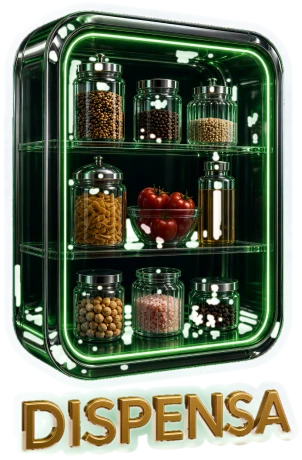
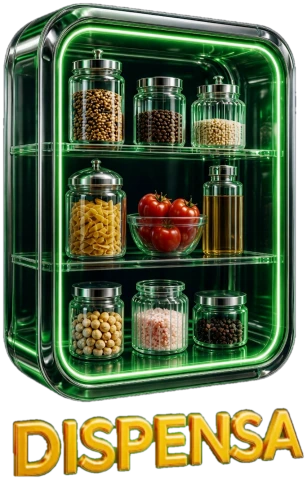
Add files via upload

diff --git a/intestazioni.py b/intestazioni.py
@@ -90,10 +90,15 @@ def ih_hero_dispensa():
     uri = ih_uri("dispensa.webp", 330)
     if not uri or "t" not in globals():
         return None
-    css = ("<style>.hero{height:auto !important;min-height:150px !important;padding:10px 16px 10px 14px !important;gap:16px !important;align-items:center !important}"
-           ".hero::after{display:none !important}"
-           ".hero .hero-img{height:136px;width:auto;flex:0 0 auto;filter:drop-shadow(0 0 7px rgba(255,255,255,.5)) drop-shadow(0 4px 6px rgba(0,0,0,.4))}"
-           ".hero-testi{max-width:none !important;min-width:0}</style>")
+    # IDENTICO al garage di Auto (che è «perfetto»): flex, icona a sinistra, testo a destra centrato in verticale, stessi spazi e stessi caratteri (h1 1,7 rem, sottotitolo 0,95 rem)
+    # «.hero.hero» = più forte di ogni altra regola «.hero» dello stile (che arrivano in ordine diverso e fissavano altezza 158 px, margini a 0 e testo largo 150 px)
+    css = ("<style>.hero.hero{display:flex !important;flex-direction:row !important;align-items:center !important;justify-content:flex-start !important;gap:16px !important;height:auto !important;min-height:0 !important;padding:18px 22px !important;"
+           "border-radius:24px !important;border:none !important;overflow:hidden !important;box-shadow:0 6px 18px rgba(0,60,40,.4) !important;background:linear-gradient(135deg,#0a4d3a 0%,#168a6c 55%,#6cc7b3 100%) !important}"
+           ".hero.hero::after{display:none !important}"
+           ".hero.hero .hero-img{height:150px !important;width:auto !important;max-width:42% !important;flex:0 0 auto !important;filter:drop-shadow(0 0 7px rgba(255,255,255,.55)) drop-shadow(0 4px 6px rgba(0,0,0,.4))}"
+           ".hero.hero .hero-testi{flex:1 1 0 !important;max-width:none !important;min-width:0 !important;display:block !important;background:none !important;backdrop-filter:none !important;box-shadow:none !important;padding:0 !important;margin:0 !important}"
+           ".hero.hero h1{margin:0 !important;font-size:1.7rem !important;line-height:1.15 !important;white-space:normal !important;color:#fff !important}"
+           ".hero.hero p{margin:2px 0 0 !important;font-size:.95rem !important;font-weight:700 !important;line-height:1.35 !important;max-width:none !important;opacity:.95 !important;color:#fff !important}</style>")
     return (css + f"<div class='hero'><img class='hero-img' alt='Dispensa' src='{uri}'>"
             f"<div class='hero-testi'><h1>{t('La nostra dispensa')}</h1><p>{t('Scorte, scadenze e allergeni sempre sotto controllo')}</p></div></div>")
 

diff --git a/casa.py b/casa.py
@@ -1872,9 +1872,9 @@ def _ca_ora():
 _CA_AFF = {"alta": "🟢", "media": "🟡", "bassa": "🟠"}
 _CA_CSS = """<style>
 .ca-hero{background:linear-gradient(135deg,#7a5c00 0%,#d4a017 45%,#4aa3df 100%);color:#fff;padding:18px 22px;border-radius:24px;margin:6px 0 12px;
-box-shadow:0 10px 30px rgba(0,0,0,.15);display:flex;align-items:center;gap:14px}
-.ca-hero img{width:64px;height:64px;object-fit:contain;filter:drop-shadow(0 3px 5px rgba(0,0,0,.3))}
-.ca-hero h1{margin:0;font-size:1.8rem;color:#fff;padding:0}.ca-hero p{margin:4px 0 0;opacity:.95}
+box-shadow:0 10px 30px rgba(0,0,0,.15);display:flex;align-items:center;gap:16px}
+.ca-hero img{height:132px;width:auto;max-width:40%;object-fit:contain;flex:0 0 auto;filter:drop-shadow(0 0 7px rgba(255,255,255,.55)) drop-shadow(0 4px 6px rgba(0,0,0,.4))}
+.ca-hero h1{margin:0;font-size:1.7rem;line-height:1.15;color:#fff;padding:0}.ca-hero p{margin:2px 0 0;font-size:.95rem;opacity:.95}
 .ca-card{background:#ffffffcc;border:1px solid #e3d9b8;border-radius:18px;padding:12px 14px;margin:6px 0}
 .ca-card b{font-size:1.02rem}.ca-chip{display:inline-block;border-radius:999px;padding:2px 10px;font-size:.78rem;font-weight:700;margin:2px 4px 2px 0}
 .ca-ok{background:#e8f5e9;color:#1b5e20}.ca-presto{background:#fff3e0;color:#bf360c}.ca-scaduta{background:#eceff1;color:#263238}.ca-neutro{background:#e3f2fd;color:#0d47a1}
